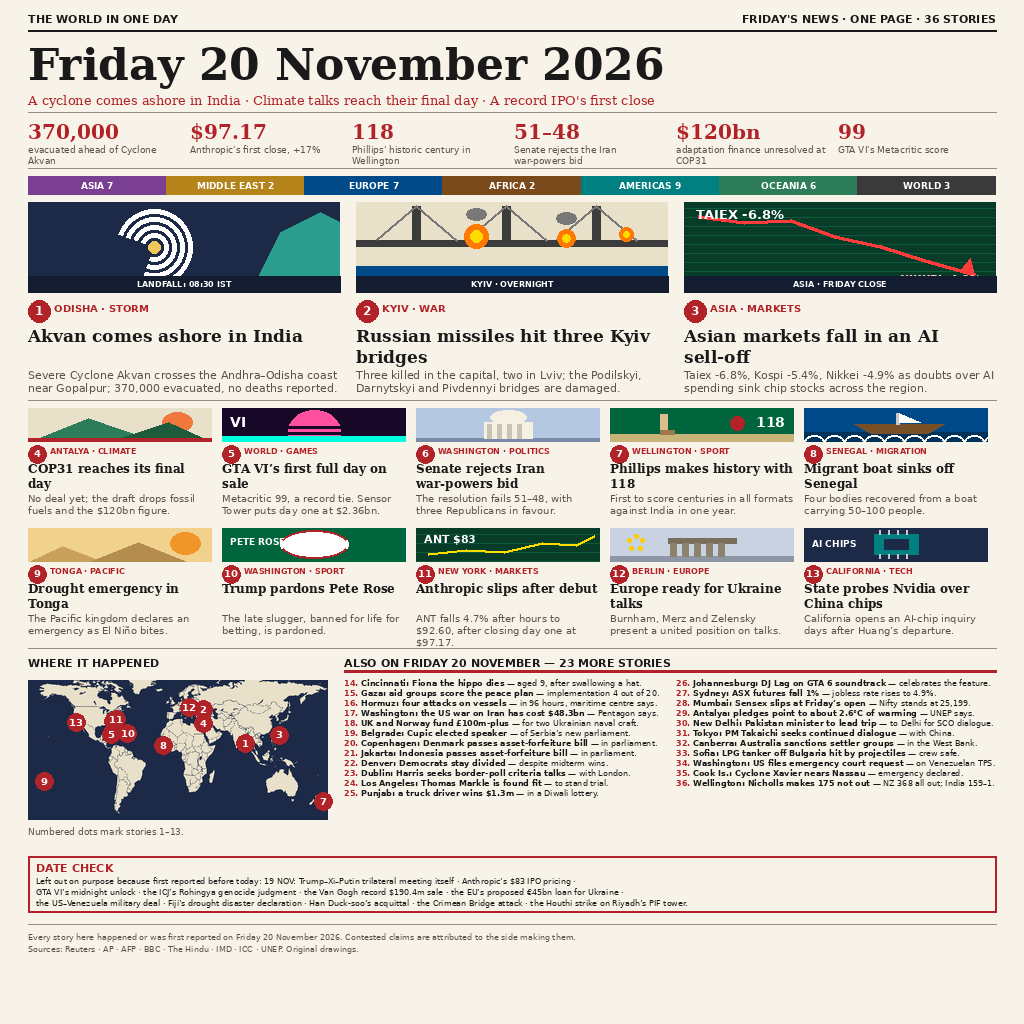
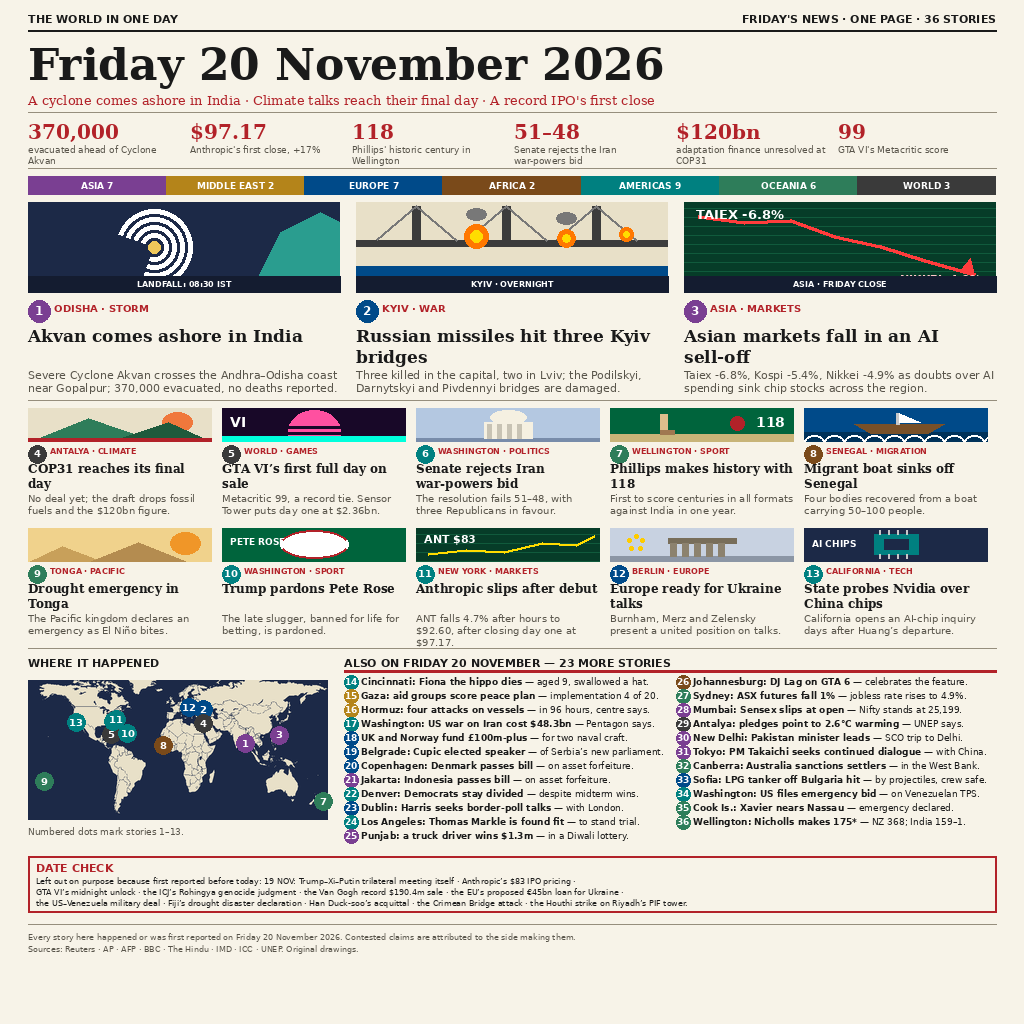
v3: colourful region-coded numbers 1-36, bigger ALSO section with number chips

diff --git a/draw_frontpage.py b/draw_frontpage.py
@@ -1,24 +1,18 @@
 #!/usr/bin/env python3
-"""Front page v2 for news-image-20261120 — Friday 20 November 2026.
-REDESIGNED after the user's note that v1 reused the 20261119 concept
-(navy header block, UTC strip, dotted map, 4x3 medium grid). v2 follows
-the top-4 entries' concept instead:
-  - light paper header: small masthead line, big black serif date title,
-    red subtitle; NO navy block, NO UTC strip.
-  - BY THE NUMBERS strip (6 stats) directly under the subtitle.
-  - coloured region bar.
-  - 3 illustrated heroes.
-  - 10 medium stories in a 5x2 grid (each with a small art strip).
-  - SOLID landmass map (recoloured worldmap: cream land on navy ocean),
-    not the dotted map.
-  - ALSO list (23 stories, 2 columns).
-  - DATE CHECK in a red-bordered box.
-  - footer.
-36 stories total. Same verified Friday facts as v1 (Akvan 370,000
-evacuated; Kyiv 3 bridges, 3 killed; Taiex -6.8%, Kospi -5.4%,
+"""Front page v3 for news-image-20261120 — Friday 20 November 2026.
+v3 improves on v2 (98.5964%, rank 86) at the user's direction:
+  - the ALSO ON FRIDAY section at the bottom is BIGGER and more
+    interesting: larger type, taller rows, and a coloured number chip
+    for every story.
+  - the story numbers 1-36 are COLOURFUL: each number sits in a circle
+    coloured by its region (same colours as the region bar), so the
+    page's numbering doubles as a region key.
+Same top-4 concept as v2 (light header, BY THE NUMBERS x6, 5x2 medium,
+solid map, DATE CHECK box) and the same verified Friday facts (Akvan
+370,000 evacuated; Kyiv 3 bridges, 3 killed; Taiex -6.8%, Kospi -5.4%,
 Nikkei -4.9%; COP31 final day, no deal, $120bn dropped). Own story
 selection and wording; the winning FORMULA is followed, never the content.
-Saves to repo/entry.png (1024x1024, <1 MiB)."""
+Saves to entry.png (1024x1024, <1 MiB)."""
 from PIL import Image, ImageDraw, ImageFont
 import math, os
 
@@ -57,13 +51,37 @@ F_DECK2 = font("DejaVuSans.ttf", 10)
 F_SECT  = font("DejaVuSans-Bold.ttf", 11)
 F_BIGN  = font("DejaVuSerif-Bold.ttf", 20)
 F_BIGL  = font("DejaVuSans.ttf", 9)
-F_ALSO_N= font("DejaVuSans-Bold.ttf", 8)
-F_ALSO_B= font("DejaVuSans-Bold.ttf", 8)
-F_ALSO  = font("DejaVuSans.ttf", 8)
+F_ALSO_N= font("DejaVuSans-Bold.ttf", 9)
+F_ALSO_B= font("DejaVuSans-Bold.ttf", 9)
+F_ALSO  = font("DejaVuSans.ttf", 9)
 F_MAPN  = font("DejaVuSans-Bold.ttf", 10)
 F_FOOT  = font("DejaVuSans.ttf", 8)
 F_MAPC  = font("DejaVuSans.ttf", 9)
 F_REG   = font("DejaVuSans-Bold.ttf", 9)
+
+# Region colours (same as the region bar) and each story's region,
+# so the numbers 1-36 are colourful and double as a region key.
+REGION_COLORS = {
+    "ASIA": (122, 63, 146),
+    "MIDDLE EAST": (180, 132, 26),
+    "EUROPE": (0, 74, 137),
+    "AFRICA": (122, 74, 26),
+    "AMERICAS": (0, 128, 128),
+    "OCEANIA": (46, 125, 90),
+    "WORLD": (58, 58, 58),
+}
+STORY_REGION = {
+    1: "ASIA", 2: "EUROPE", 3: "ASIA",
+    4: "WORLD", 5: "WORLD", 6: "AMERICAS", 7: "OCEANIA", 8: "AFRICA",
+    9: "OCEANIA", 10: "AMERICAS", 11: "AMERICAS", 12: "EUROPE", 13: "AMERICAS",
+    14: "AMERICAS", 15: "MIDDLE EAST", 16: "MIDDLE EAST", 17: "AMERICAS",
+    18: "EUROPE", 19: "EUROPE", 20: "EUROPE", 21: "ASIA", 22: "AMERICAS",
+    23: "EUROPE", 24: "AMERICAS", 25: "ASIA", 26: "AFRICA", 27: "OCEANIA",
+    28: "ASIA", 29: "WORLD", 30: "ASIA", 31: "ASIA", 32: "OCEANIA",
+    33: "EUROPE", 34: "AMERICAS", 35: "OCEANIA", 36: "OCEANIA",
+}
+def region_color(n):
+    return REGION_COLORS[STORY_REGION[n]]
 
 img = Image.new("RGB", (W, H), PAPER)
 d = ImageDraw.Draw(img)
@@ -88,8 +106,8 @@ def textlines(x, y, lines, fnt, fill, lh):
         y += lh
     return y
 
-def circle_num(cx, cy, r, num, fnt):
-    d.ellipse([cx - r, cy - r, cx + r, cy + r], fill=RED)
+def circle_num(cx, cy, r, num, fnt, fill=RED):
+    d.ellipse([cx - r, cy - r, cx + r, cy + r], fill=fill)
     bb = d.textbbox((0, 0), num, font=fnt)
     tw, th = bb[2] - bb[0], bb[3] - bb[1]
     d.text((cx - tw / 2 - bb[0], cy - th / 2 - bb[1]), num, font=fnt, fill=(255, 255, 255))
@@ -216,7 +234,7 @@ for i, h in enumerate(HEROES):
     cw = d.textlength(h["cap"], font=F_CAP)
     d.text((x + (HW - cw) / 2, HY_IMG + HIMG_H - 13), h["cap"], font=F_CAP, fill=(255, 255, 255))
     ky = HY_IMG + HIMG_H + 8
-    circle_num(x + 11, ky + 11, 11, str(i + 1), F_NUM)
+    circle_num(x + 11, ky + 11, 11, str(i + 1), F_NUM, region_color(i + 1))
     d.text((x + 26, ky + 2), h["kick"], font=F_KICK, fill=RED)
     hy = ky + 26
     textlines(x, hy, wrap(h["head"], F_HERO_H, HW), F_HERO_H, INK, 21)
@@ -360,7 +378,7 @@ for i, (kick, head, deck) in enumerate(MED):
     y = MROW_Y[r]
     img.paste(MED_ICONS[i](MBW, 34), (x, y))
     ky = y + 38
-    circle_num(x + 9, ky + 8, 9, str(i + 4), F_NUM2)
+    circle_num(x + 9, ky + 8, 9, str(i + 4), F_NUM2, region_color(i + 4))
     d.text((x + 22, ky), kick, font=F_KICK2, fill=RED)
     hy = ky + 15
     textlines(x, hy, wrap(head, F_MED_H, MBW), F_MED_H, INK, 15)
@@ -417,7 +435,7 @@ MARKERS = [
 ]
 for i, (lon, lat, dx, dy) in enumerate(MARKERS, start=1):
     mx, my = map_xy(lon, lat)
-    circle_num(mx + dx, my + dy, 9, str(i), F_MAPN)
+    circle_num(mx + dx, my + dy, 9, str(i), F_MAPN, region_color(i))
 d.text((MAP_X, 826), "Numbered dots mark stories 1\u201313.", font=F_MAPC, fill=MUTED)
 
 # ALSO list 14-36 (23 stories, own selection + wording)
@@ -426,45 +444,47 @@ AW = 652
 d.text((AX, 656), "ALSO ON FRIDAY 20 NOVEMBER \u2014 23 MORE STORIES", font=F_SECT, fill=INK)
 d.rectangle([AX, 670, AX + AW, 672], fill=RED)
 ALSO = [
-    ("Cincinnati: Fiona the hippo dies", "aged 9, after swallowing a hat."),
-    ("Gaza: aid groups score the peace plan", "implementation 4 out of 20."),
-    ("Hormuz: four attacks on vessels", "in 96 hours, maritime centre says."),
-    ("Washington: the US war on Iran has cost $48.3bn", "Pentagon says."),
-    ("UK and Norway fund \u00a3100m-plus", "for two Ukrainian naval craft."),
+    ("Cincinnati: Fiona the hippo dies", "aged 9, swallowed a hat."),
+    ("Gaza: aid groups score peace plan", "implementation 4 of 20."),
+    ("Hormuz: four attacks on vessels", "in 96 hours, centre says."),
+    ("Washington: US war on Iran cost $48.3bn", "Pentagon says."),
+    ("UK and Norway fund \u00a3100m-plus", "for two naval craft."),
     ("Belgrade: Cupic elected speaker", "of Serbia\u2019s new parliament."),
-    ("Copenhagen: Denmark passes asset-forfeiture bill", "in parliament."),
-    ("Jakarta: Indonesia passes asset-forfeiture bill", "in parliament."),
+    ("Copenhagen: Denmark passes bill", "on asset forfeiture."),
+    ("Jakarta: Indonesia passes bill", "on asset forfeiture."),
     ("Denver: Democrats stay divided", "despite midterm wins."),
-    ("Dublin: Harris seeks border-poll criteria talks", "with London."),
+    ("Dublin: Harris seeks border-poll talks", "with London."),
     ("Los Angeles: Thomas Markle is found fit", "to stand trial."),
     ("Punjab: a truck driver wins $1.3m", "in a Diwali lottery."),
-    ("Johannesburg: DJ Lag on GTA 6 soundtrack", "celebrates the feature."),
+    ("Johannesburg: DJ Lag on GTA 6", "celebrates the feature."),
     ("Sydney: ASX futures fall 1%", "jobless rate rises to 4.9%."),
-    ("Mumbai: Sensex slips at Friday\u2019s open", "Nifty stands at 25,199."),
-    ("Antalya: pledges point to about 2.6\u00b0C of warming", "UNEP says."),
-    ("New Delhi: Pakistan minister to lead trip", "to Delhi for SCO dialogue."),
+    ("Mumbai: Sensex slips at open", "Nifty stands at 25,199."),
+    ("Antalya: pledges point to 2.6\u00b0C warming", "UNEP says."),
+    ("New Delhi: Pakistan minister leads", "SCO trip to Delhi."),
     ("Tokyo: PM Takaichi seeks continued dialogue", "with China."),
-    ("Canberra: Australia sanctions settler groups", "in the West Bank."),
-    ("Sofia: LPG tanker off Bulgaria hit by projectiles", "crew safe."),
-    ("Washington: US files emergency court request", "on Venezuelan TPS."),
-    ("Cook Is.: Cyclone Xavier nears Nassau", "emergency declared."),
-    ("Wellington: Nicholls makes 175 not out", "NZ 368 all out; India 159\u20131."),
+    ("Canberra: Australia sanctions settlers", "in the West Bank."),
+    ("Sofia: LPG tanker off Bulgaria hit", "by projectiles, crew safe."),
+    ("Washington: US files emergency bid", "on Venezuelan TPS."),
+    ("Cook Is.: Xavier nears Nassau", "emergency declared."),
+    ("Wellington: Nicholls makes 175*", "NZ 368; India 159\u20131."),
 ]
 COLW = 320
 COLX = [AX, AX + COLW + 12]
-ROW_H = 10
+ROW_H = 14
 for i, (title, detail) in enumerate(ALSO):
     col, row = divmod(i, 12)
     x = COLX[col]
-    y = 678 + row * ROW_H
-    num = str(i + 14)
-    cx = x
-    for txt, fnt, fill in [(num + ". ", F_ALSO_N, RED), (title, F_ALSO_B, INK),
+    y = 676 + row * ROW_H
+    n = i + 14
+    # coloured number chip (region colour), then the story text
+    circle_num(x + 7, y + 6, 7, str(n), F_ALSO_N, region_color(n))
+    cx = x + 17
+    for txt, fnt, fill in [(title, F_ALSO_B, INK),
                            (" \u2014 " + detail, F_ALSO, INK)]:
         d.text((cx, y), txt, font=fnt, fill=fill)
         cx += d.textlength(txt, font=fnt)
     if cx > x + COLW:
-        print("OVERFLOW also", num, title, "width", round(cx - x), ">", COLW)
+        print("OVERFLOW also", str(n), title, "width", round(cx - x), ">", COLW)
 
 # ---------------- DATE CHECK (red box) + FOOTER ----------------
 d.rectangle([MX, 856, W - MX, 912], outline=RED, width=2)
